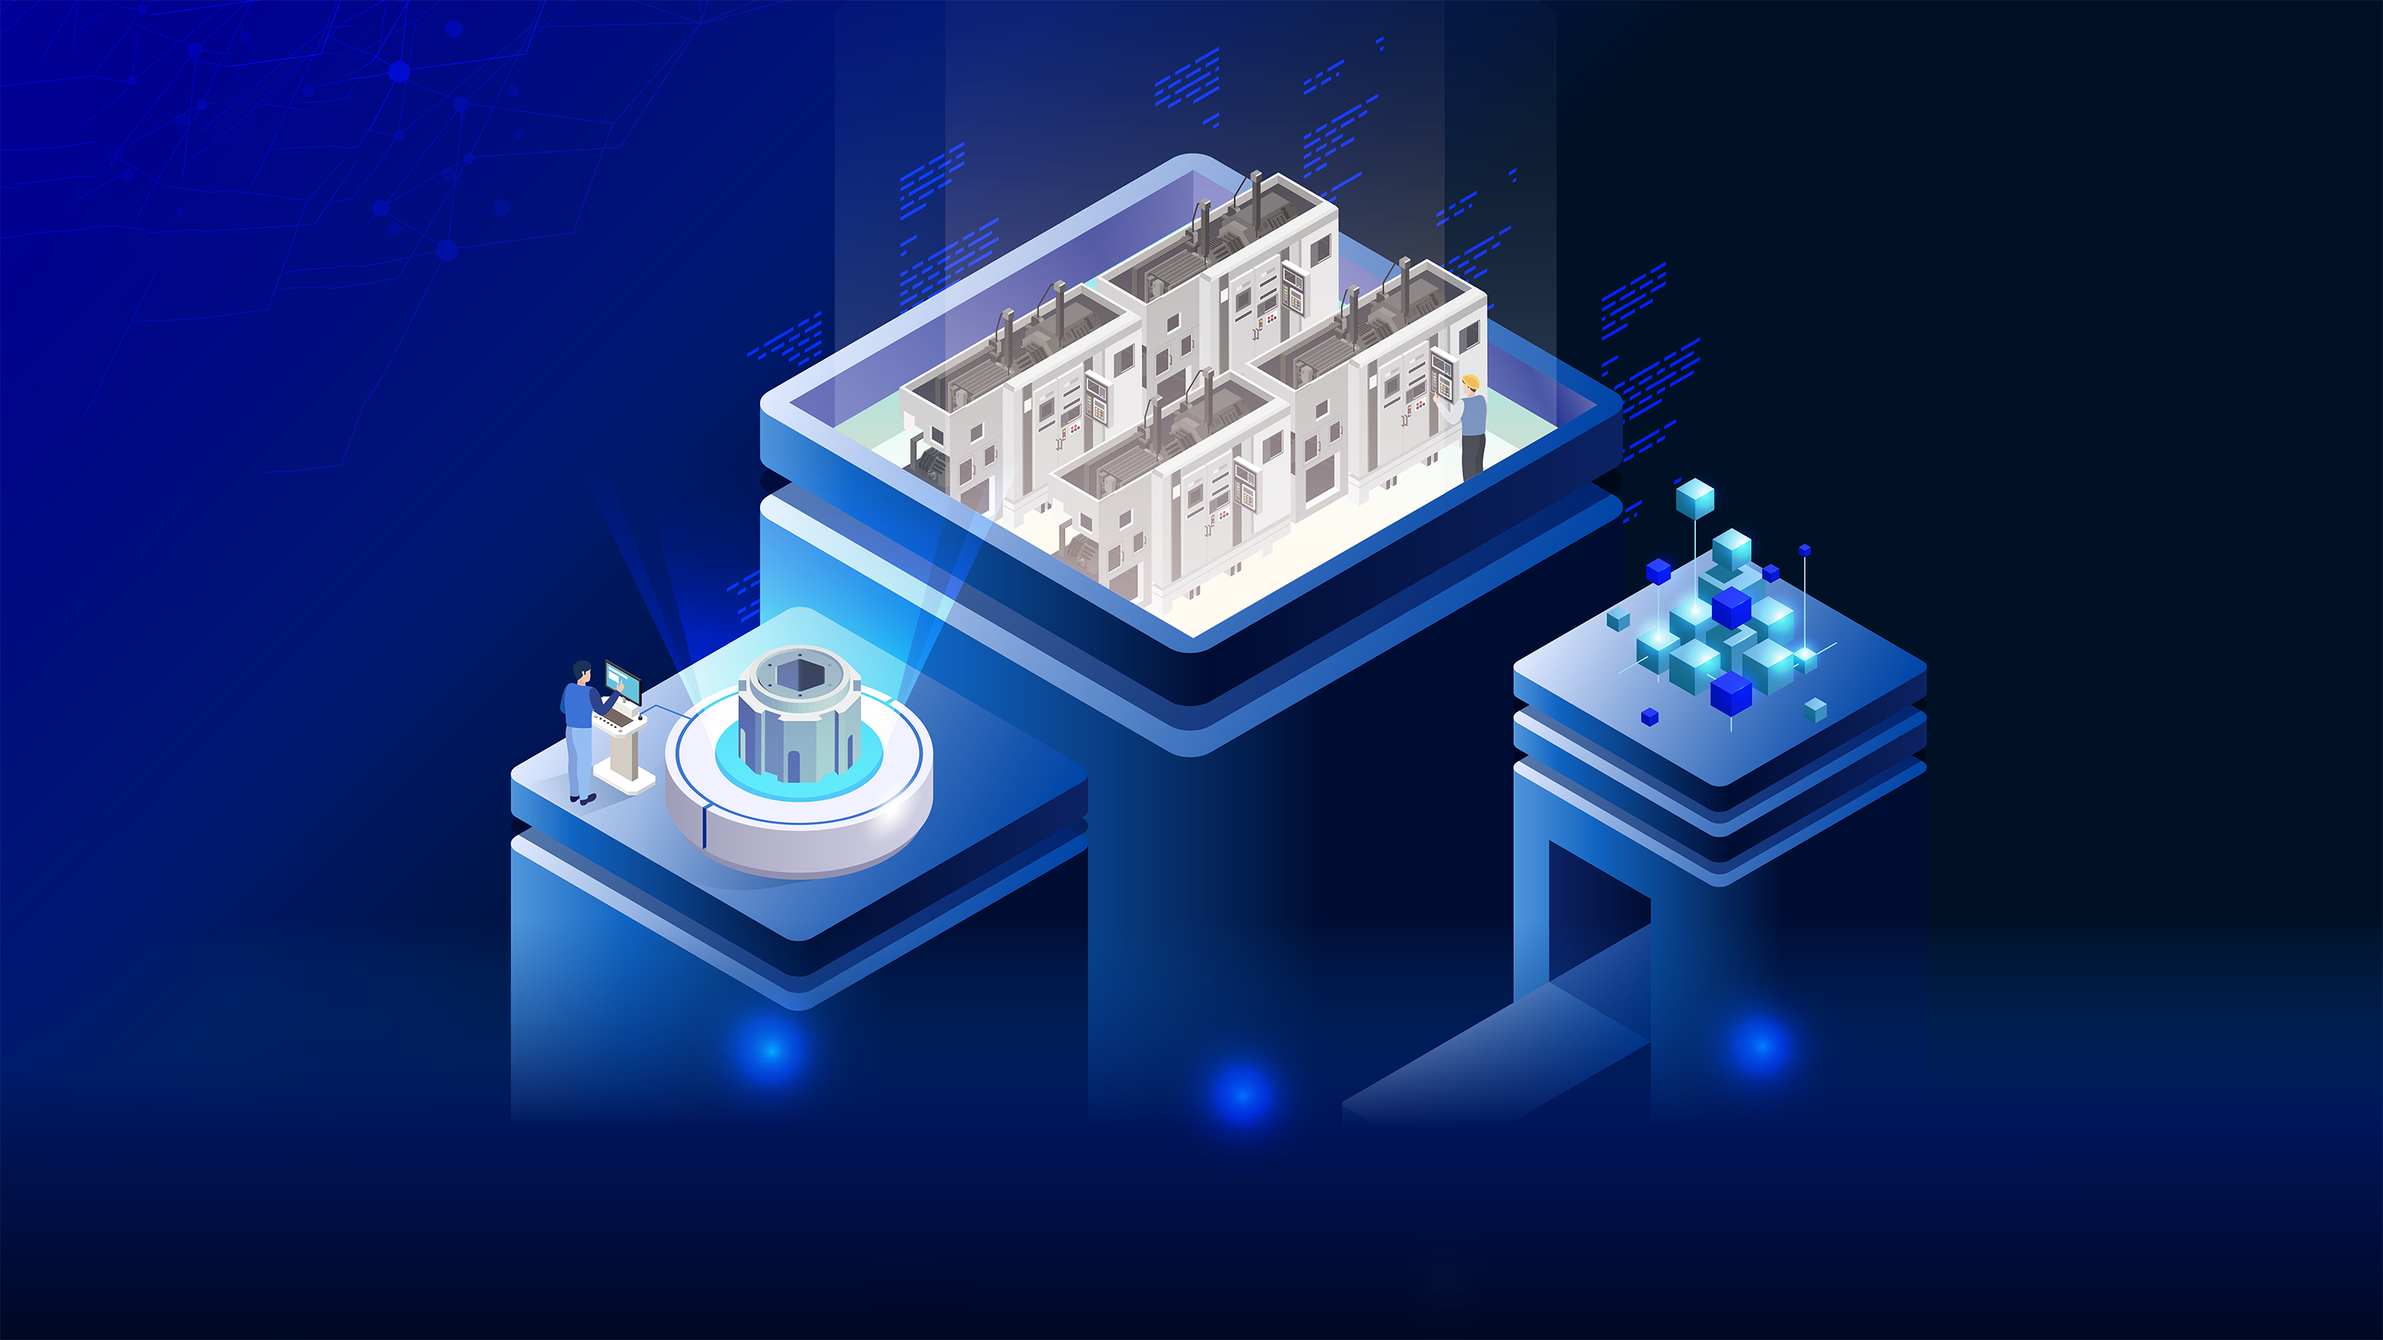
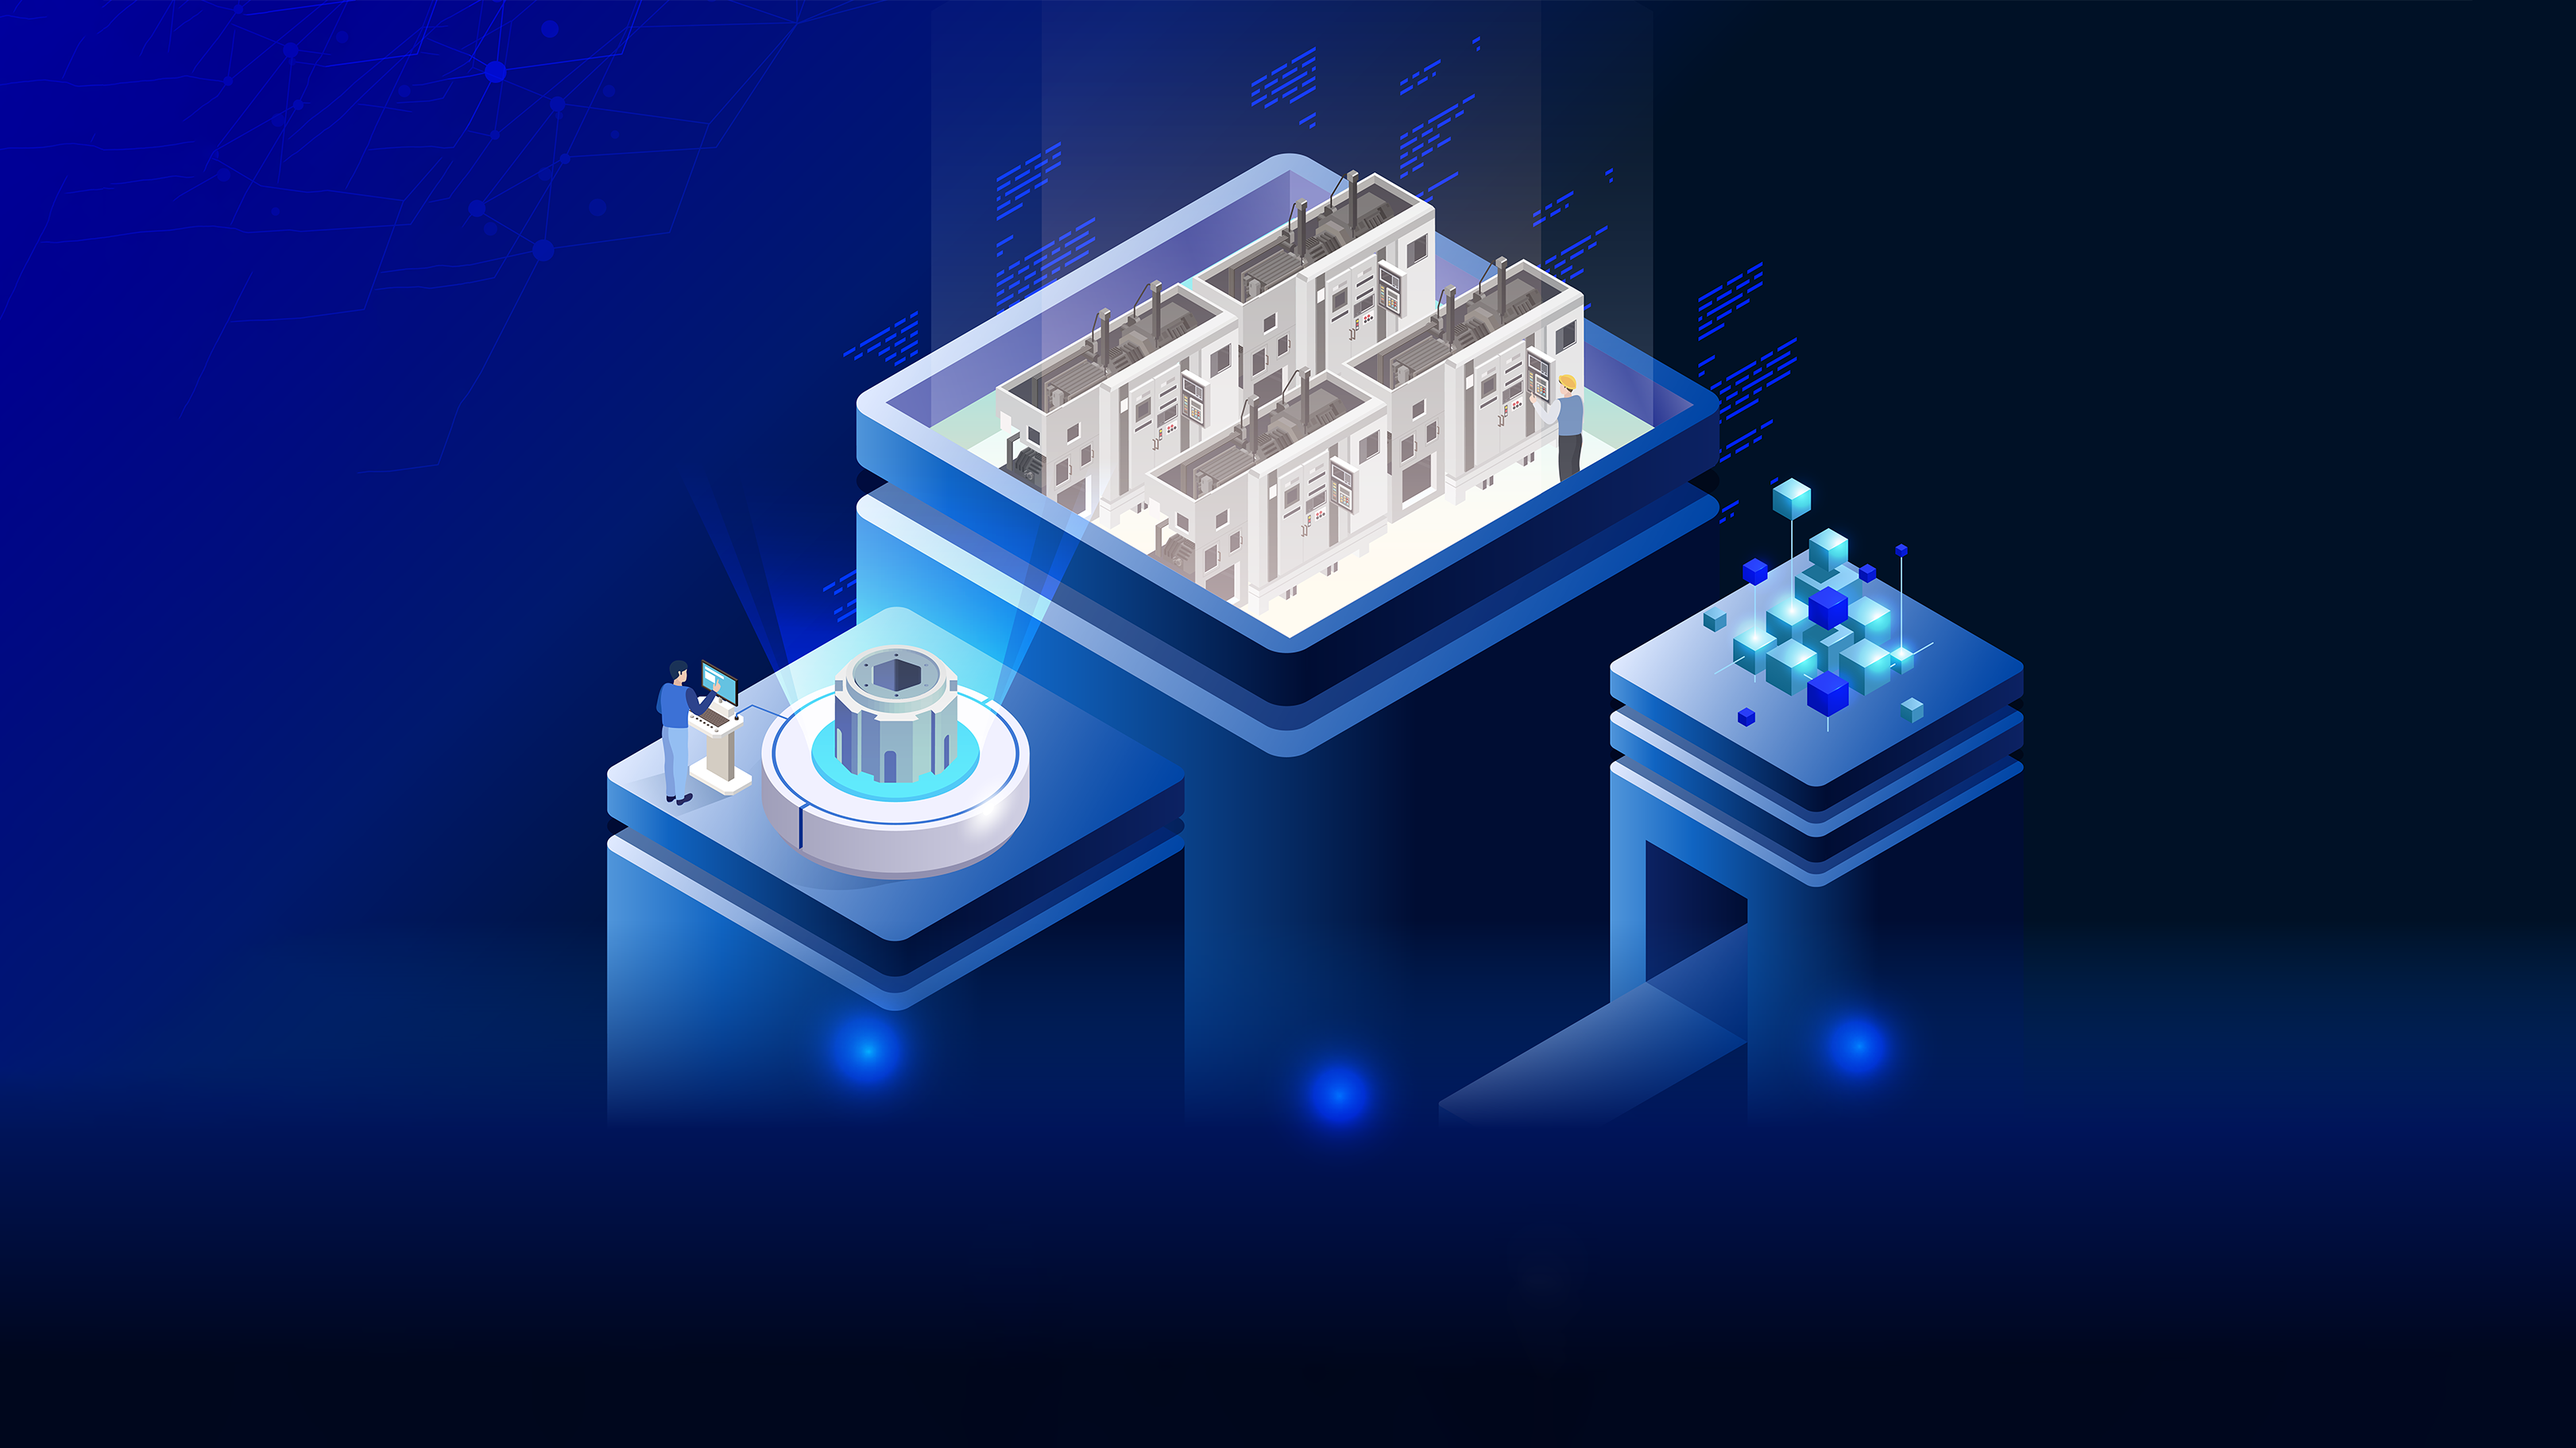
滿版

diff --git a/css/style.scss b/css/style.scss
@@ -27,15 +27,19 @@ a {
     background-position: center -45%;
     background-repeat: no-repeat;
     width: 100%;
-    // height: 100vh;
-    @media screen and (max-width: 1199px) {
-        background-position: center -30%;
-    }
-    @media screen and (max-width: 991px) {
+    height: 100vh;
+    position: relative;
+    @media screen and (max-width: 1800px) {
         background-position: center top;
     }
-    @media screen and (max-width: 767px) {
-        // background-image: url(../img/bg2.png);
+    @media screen and (max-width: 1500px) {
+        background-position: center center;
+        background-size: cover;
+    }
+    @media screen and (max-width: 991px) {
+        background-image: url(../img/bg2.png);
+        background-size: 100%;
+        background-position: center top;
     }
 }
 
@@ -118,7 +122,7 @@ a {
     }
     @media screen and (max-width: 767px) {
         font-size: 36px;
-        padding: 45vw 0 0;
+        padding: 90vw 0 0;
         width: fit-content;
         margin: 0 auto;
         &::before {
@@ -132,11 +136,15 @@ a {
 }
 
 .link {
-    padding-top: 16vw;
-    padding-bottom: 45px;
+    // padding-top: 16vw;
+    // padding-bottom: 45px;
     // max-width: 1165px;
     margin: 0 auto;
     width: 100%;
+    position: absolute;
+    width: 100%;
+    bottom: 85px;
+    left: 0;
     &_item {
         text-align: center;
         img {
@@ -179,7 +187,9 @@ a {
         padding-top: 10vw;
     }
     @media screen and (max-width: 991px) {
-        // padding-top: 45vw;
+        padding-top: 45vw;
+        position: static;
+        // padding-top: 7vw;
         >.container {
             max-width: inherit;
         }
@@ -216,6 +226,15 @@ a {
 
 .copyright {
     text-align: center;
-    padding-bottom: 30px;
+    // padding-bottom: 30px;
+    margin: 0;
     font-size: 14px;
+    position: absolute;
+    width: 100%;
+    bottom: 15px;
+    left: 0;
+    @media screen and (max-width: 991px) {
+        position: static;
+        margin-top: 30px;
+    }
 }

diff --git a/css/style.css b/css/style.css
@@ -28,16 +28,27 @@ a {
   background-position: center -45%;
   background-repeat: no-repeat;
   width: 100%;
+  height: 100vh;
+  position: relative;
 }
 
-@media screen and (max-width: 1199px) {
+@media screen and (max-width: 1800px) {
   .main {
-    background-position: center -30%;
+    background-position: center top;
+  }
+}
+
+@media screen and (max-width: 1500px) {
+  .main {
+    background-position: center center;
+    background-size: cover;
   }
 }
 
 @media screen and (max-width: 991px) {
   .main {
+    background-image: url(../img/bg2.png);
+    background-size: 100%;
     background-position: center top;
   }
 }
@@ -149,7 +160,7 @@ a {
 @media screen and (max-width: 767px) {
   .title {
     font-size: 36px;
-    padding: 45vw 0 0;
+    padding: 90vw 0 0;
     width: -webkit-fit-content;
     width: -moz-fit-content;
     width: fit-content;
@@ -165,10 +176,12 @@ a {
 }
 
 .link {
-  padding-top: 16vw;
-  padding-bottom: 45px;
   margin: 0 auto;
   width: 100%;
+  position: absolute;
+  width: 100%;
+  bottom: 85px;
+  left: 0;
 }
 
 .link_item {
@@ -227,6 +240,10 @@ a {
 }
 
 @media screen and (max-width: 991px) {
+  .link {
+    padding-top: 45vw;
+    position: static;
+  }
   .link > .container {
     max-width: inherit;
   }
@@ -261,7 +278,18 @@ a {
 
 .copyright {
   text-align: center;
-  padding-bottom: 30px;
+  margin: 0;
   font-size: 14px;
+  position: absolute;
+  width: 100%;
+  bottom: 15px;
+  left: 0;
+}
+
+@media screen and (max-width: 991px) {
+  .copyright {
+    position: static;
+    margin-top: 30px;
+  }
 }
 /*# sourceMappingURL=style.css.map */

diff --git a/zh/index.html b/zh/index.html
@@ -9,7 +9,7 @@
     <link rel="preconnect" href="https://fonts.gstatic.com" crossorigin>
     <link href="https://fonts.googleapis.com/css2?family=Noto+Sans+TC:wght@100;200;300;400;500;600;700;800;900&family=Tenor+Sans&display=swap" rel="stylesheet">
     <link rel="stylesheet" href="../css/bootstrap.css">
-    <link rel="stylesheet" href="../css/style.css?v=20231016">
+    <link rel="stylesheet" href="../css/style.css?v=20231018">
 </head>
 <body>
     <header class="header">
